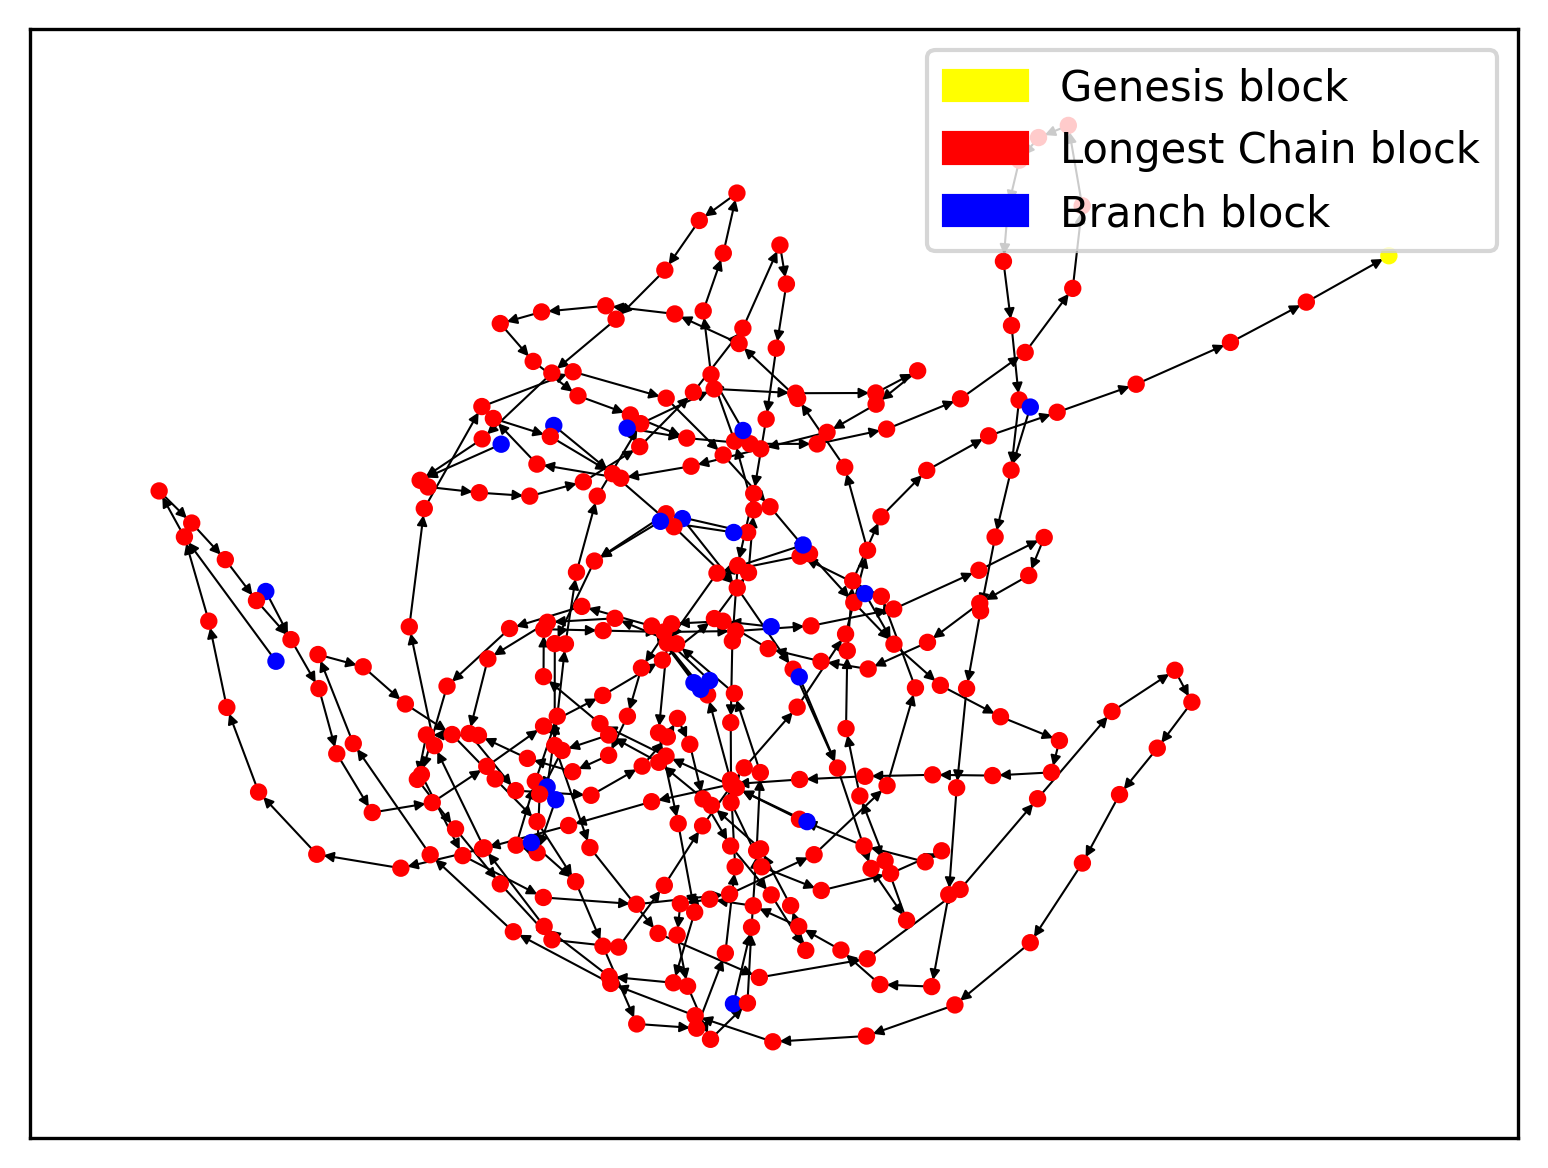
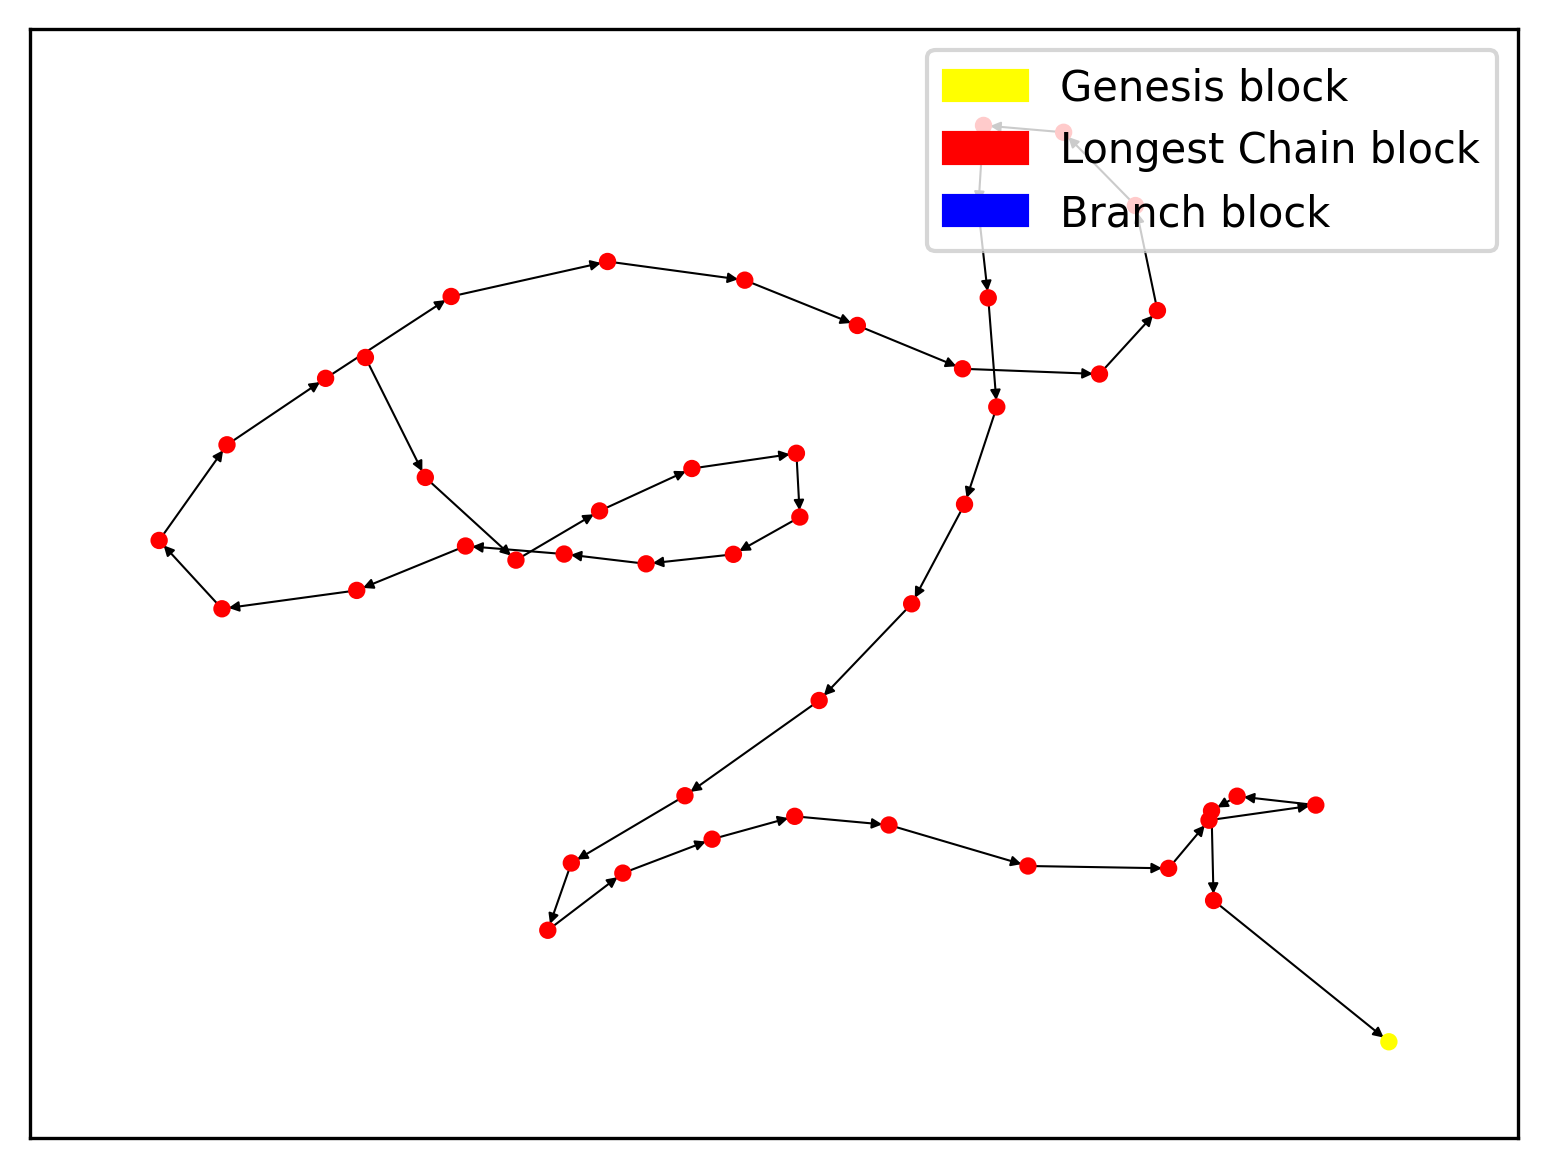
priority queue change successfull

diff --git a/p2p_code.py b/p2p_code.py
@@ -1,11 +1,21 @@
 import numpy as np
 import yaml 
-import heapq 
+from queue import PriorityQueue
 from uuid import uuid1
 import argparse
 import networkx as nx
 import matplotlib.patches as mpatches
 import matplotlib.pyplot as plt
+
+class PriorityEntry(object):
+
+    def __init__(self, priority, data):
+        self.data = data
+        self.priority = priority
+
+    def __lt__(self, other):
+        return self.priority < other.priority
+
 """
 Notes : 
 
@@ -28,7 +38,7 @@ class Simulator:
         ## Must initialise all fields such as graph for the network and peers
         with open(cfg_file,'r') as fp:
             self.cfg = yaml.safe_load(fp) 
-        self.event_queue = {}
+        self.event_queue = PriorityQueue(0)
         self.current_time = 0
         self.rho = np.random.uniform(self.cfg["low_rho"],self.cfg["high_rho"],size=(self.cfg["num_peers"],self.cfg["num_peers"]))
         self.total_events = 0
@@ -68,43 +78,32 @@ class Simulator:
         self.peer_graph = graph
         self.peer_list=[]
         for idx, peer_type in peer_types:
-            self.peer_list.append(Peer(idx, self.cfg["txn_inter_arrival_time"], self.cfg["mean_mining_time"],peer_type,self.cfg["mining_fee"],self,genesis_block))
+            self.peer_list.append(Peer(idx, self.cfg["txn_inter_arrival_time"], self.cfg["mean_mining_time"][idx],peer_type,self.cfg["mining_fee"],self,genesis_block))
         for peer in self.peer_list:
             idx = peer.idx
             conns = list(np.array(self.peer_list)[graph[idx]])
             peer.initialise_neighbours(conns)
 
     def add_event(self,event,time):
-        if time in self.event_queue:
-            (self.event_queue[time]).append(event)
-        else:
-            self.event_queue[time] = [event]
+        self.event_queue.put(PriorityEntry(time,event))
 
     def initialise_event_queue(self):
         initial_events = []
         for peer in self.peer_list:
             mining_event = Event(peer.start_mining, None)
             txn_event = Event(peer.create_transaction, None)
-            initial_events+=[mining_event, txn_event]
-        self.event_queue[self.current_time] = initial_events
+            self.add_event(mining_event,self.current_time)
+            self.add_event(txn_event,self.current_time)
         
     def run_world(self):
-        iteration=1
-        while self.current_time <= self.cfg["stop_time"]:
-            for event in self.event_queue[self.current_time]:
-                event.execute_event()
-            self.total_events+=len(self.event_queue[self.current_time])
-            self.event_queue.pop(self.current_time)
-            print("Executed all events at time {}".format(self.current_time))
-            if iteration%100==0:
-                print("Events Completed = {}".format(self.total_events))
-            iteration+=1
-            try:
-                self.current_time = min(self.event_queue)
-            except:
-                break
-        ## Final graph calculations etc
-        print("Simulation over\nTotal events executed = {}".format(self.total_events))
+        completed_events=0
+        while (not self.event_queue.empty()) and completed_events < self.cfg["max_events"]:
+            entry = self.event_queue.get()
+            self.current_time = entry.priority
+            entry.data.execute_event()
+            completed_events+=1
+            print(completed_events)
+        print("Simulation is over with total {} events executed".format(completed_events))
 
 
     def start_world(self):
@@ -332,7 +331,7 @@ class Peer:
         while cur_block.blkid!="GENESIS":
             blocks_per_peer[cur_block.creator_id]+=1
             cur_block=cur_block.parent
-        print(blocks_per_peer)
+        # print(blocks_per_peer)
         return blocks_per_peer
         
 
@@ -367,6 +366,7 @@ class Peer:
 
     def show_fraction_of_chain(self):
         blocks_per_peer = self.get_stats()
+        print(blocks_per_peer)
         y = [num/self.current_chain_end.chain_length for num in blocks_per_peer]
         x = list(range(self.simulator.cfg["num_peers"]))
         fig = plt.figure(figsize = (10, 5))
